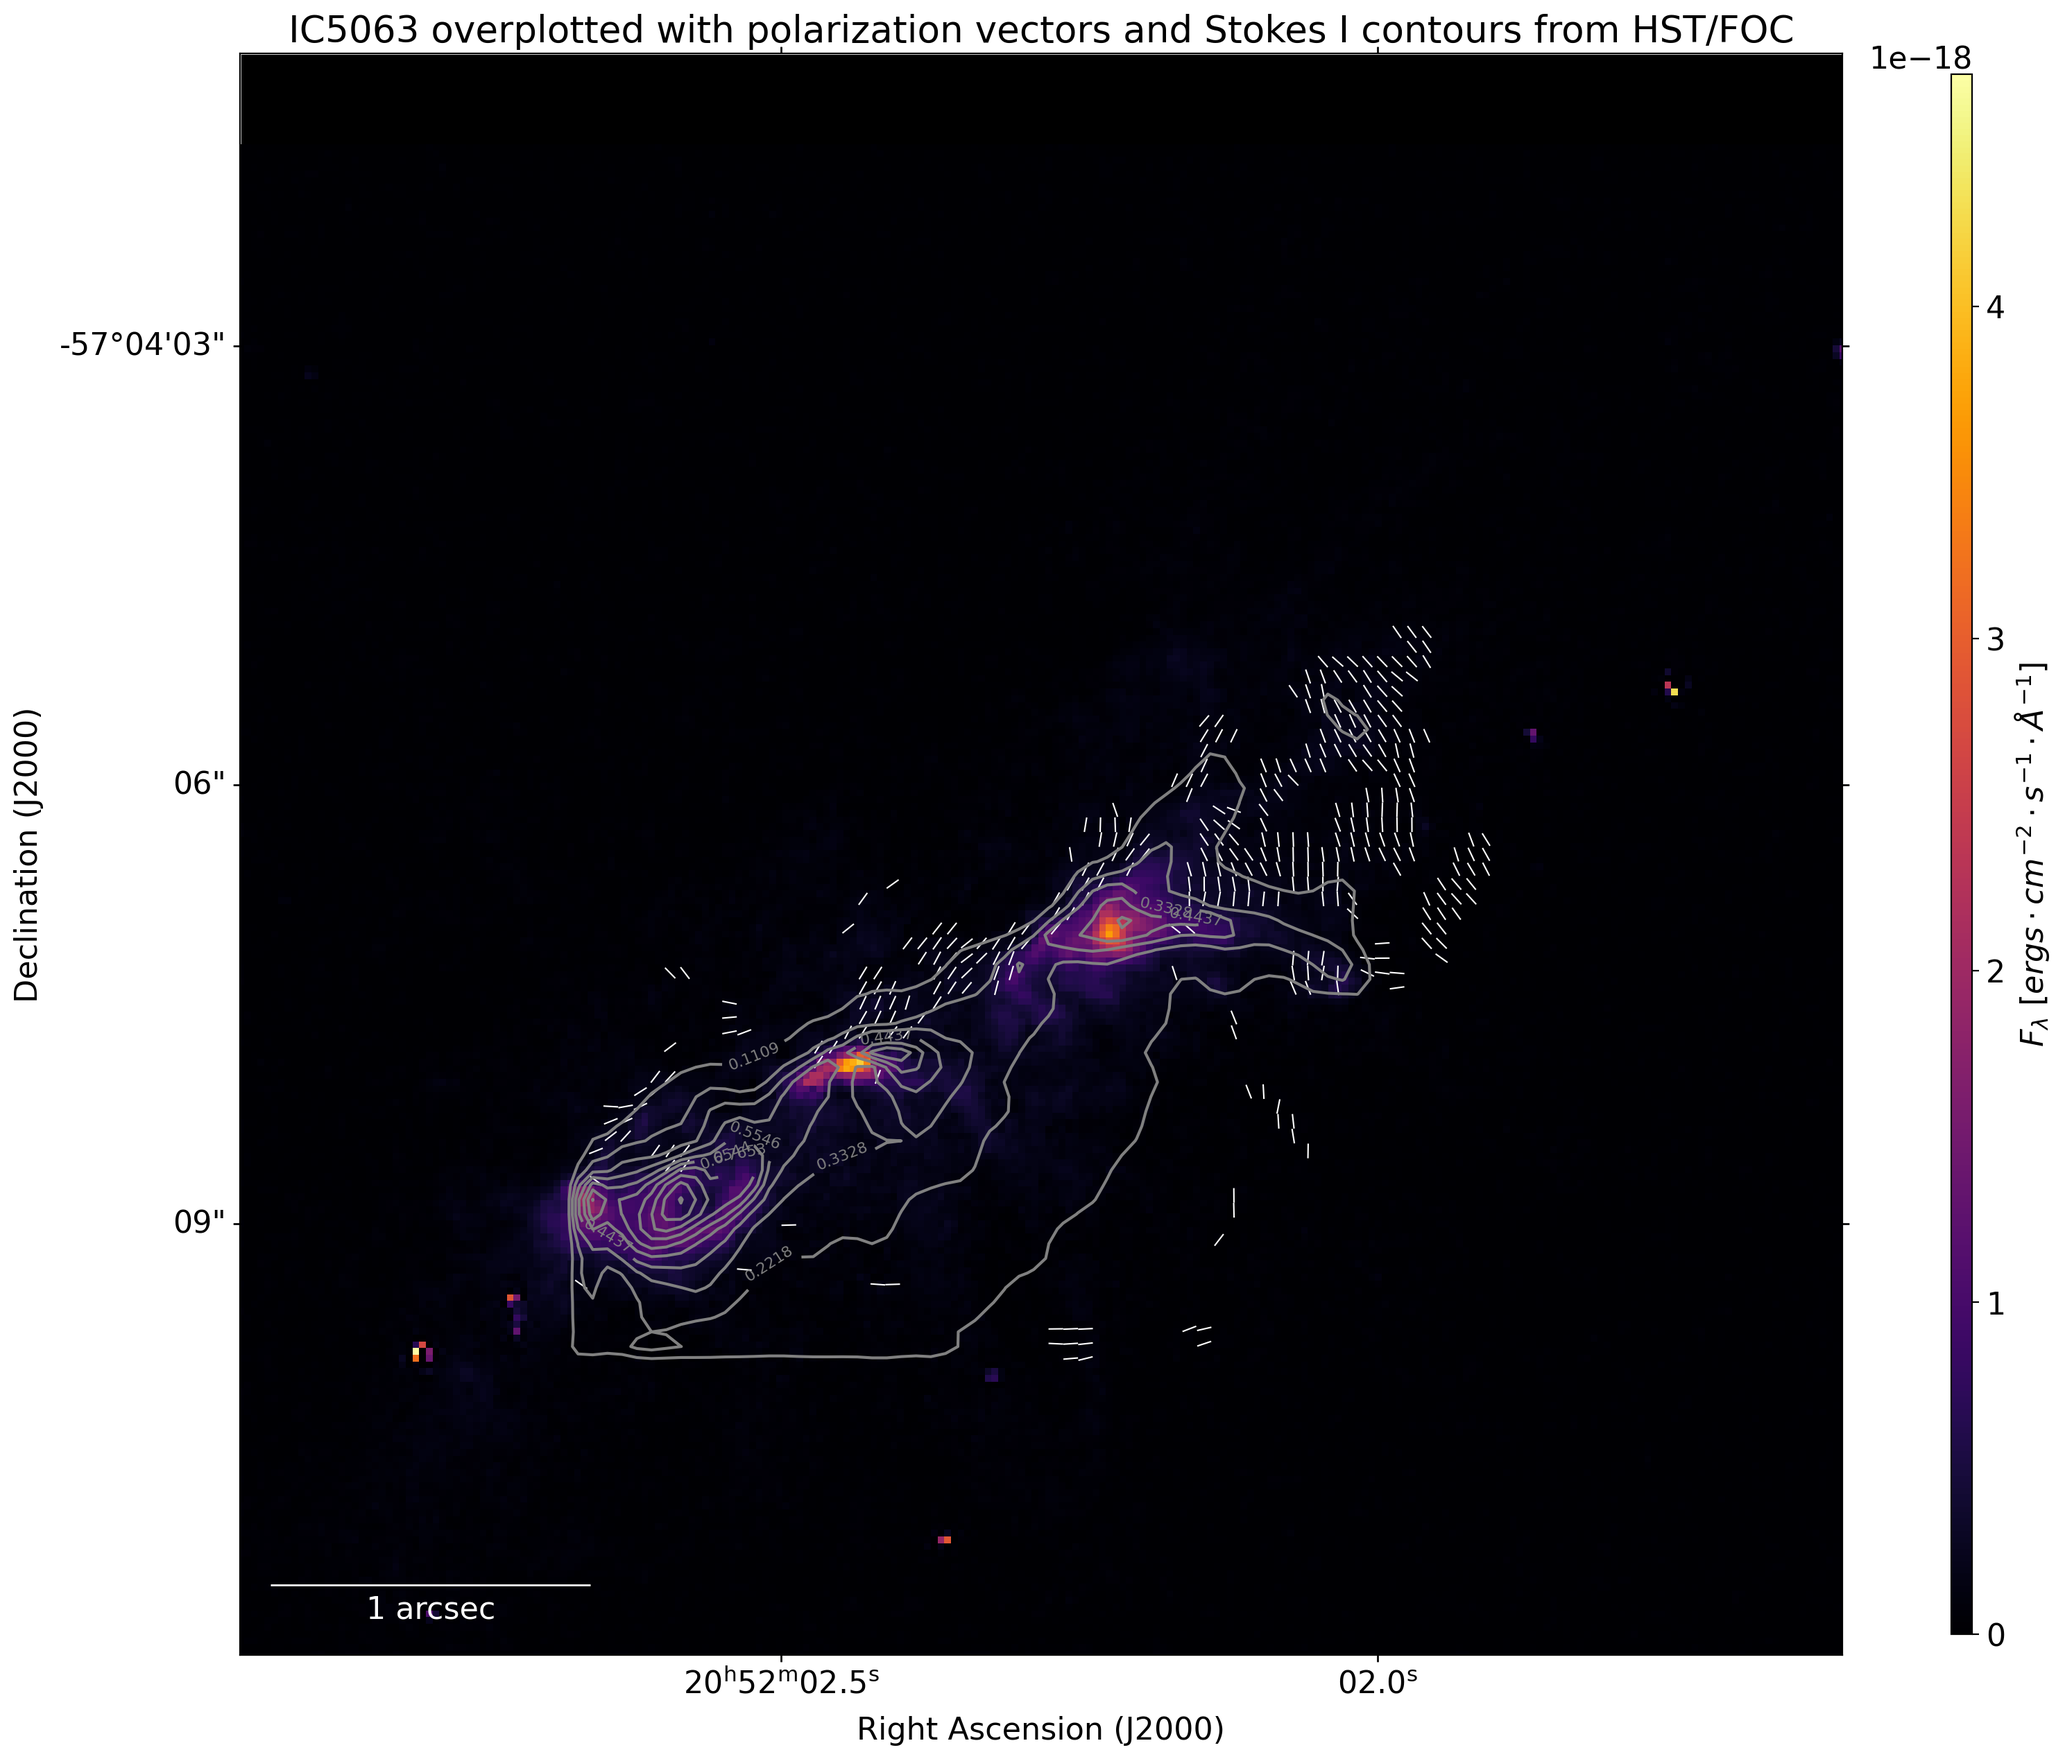
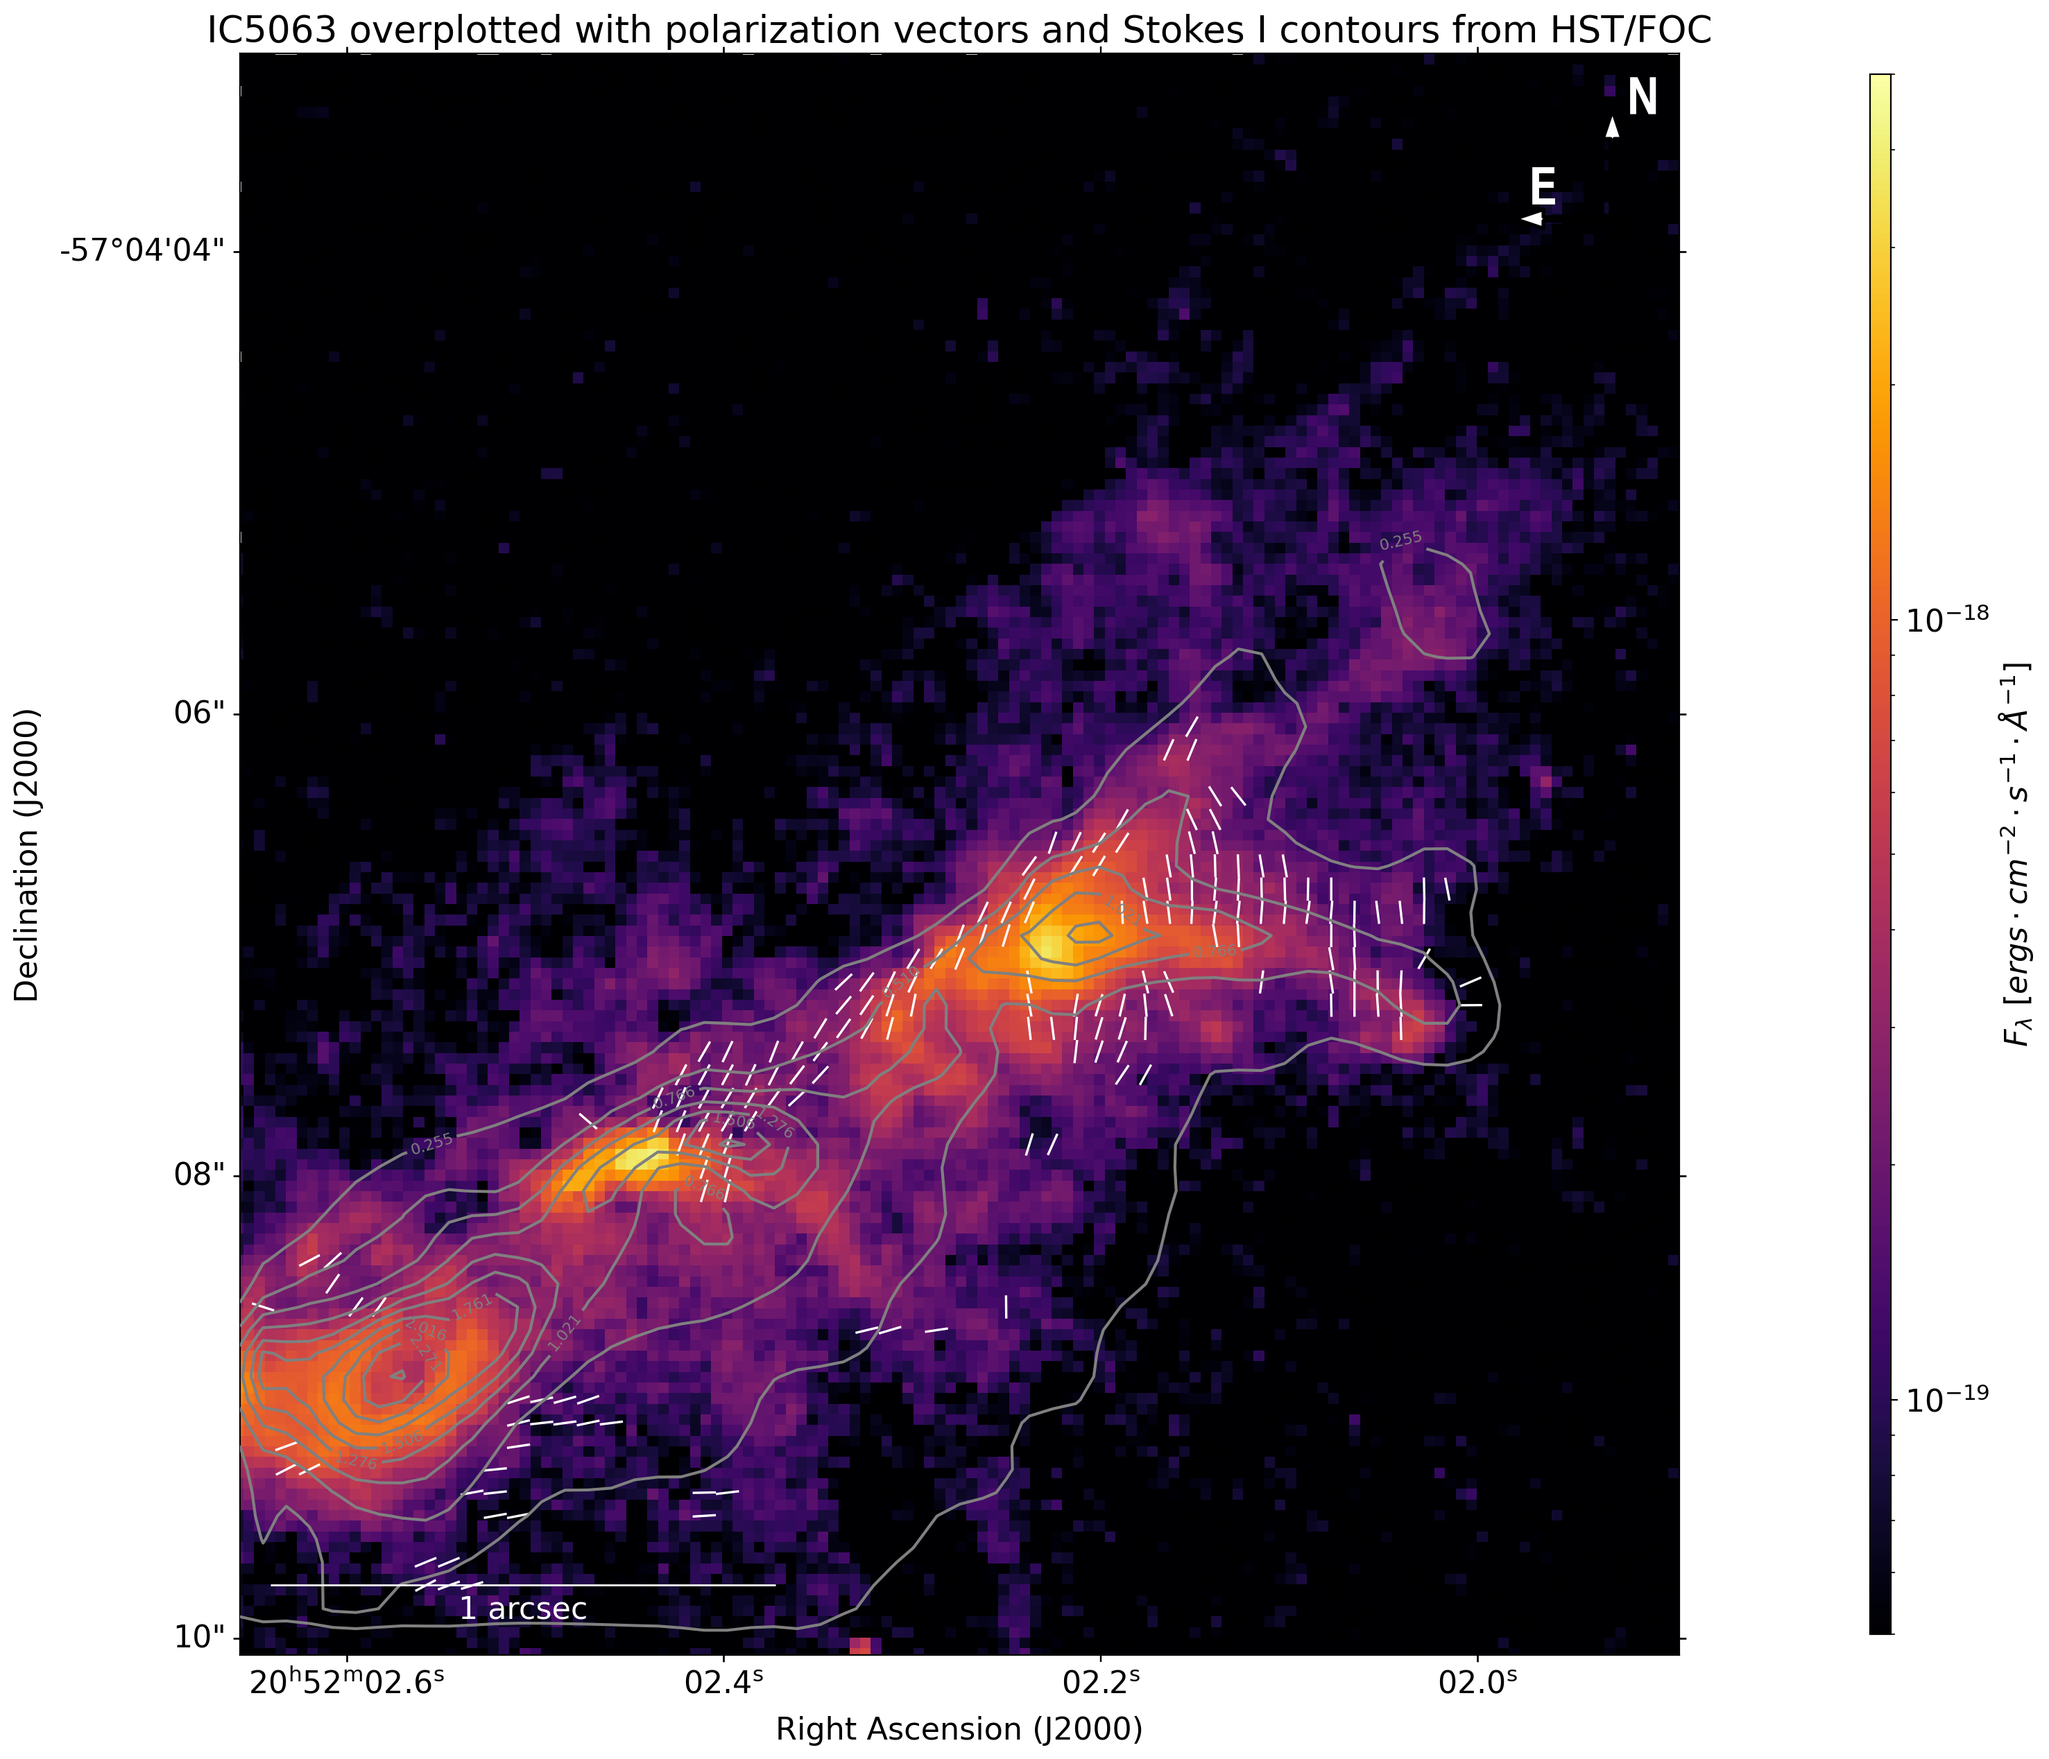
overplot IR:S2 on IC5063

diff --git a/src/lib/plots.py b/src/lib/plots.py
@@ -15,6 +15,7 @@ import matplotlib.pyplot as plt
 from matplotlib.patches import Rectangle
 from matplotlib.path import Path
 from matplotlib.widgets import RectangleSelector, Button, Slider, TextBox, LassoSelector
+from matplotlib.colors import LogNorm
 import matplotlib.font_manager as fm
 from mpl_toolkits.axes_grid1.anchored_artists import AnchoredSizeBar, AnchoredDirectionArrows
 from astropy.wcs import WCS
@@ -391,14 +392,20 @@ class align_maps(object):
         self.other_map = other_map
 
         self.wcs_map = WCS(self.map[0]).deepcopy()
-        if self.wcs_map.naxis > 2:
+        if self.wcs_map.naxis == 4:
             self.wcs_map = WCS(self.map[0],naxis=[1,2]).deepcopy()
             self.map[0].data = self.map[0].data[0,0]
+        elif self.wcs_map.naxis == 3:
+            self.wcs_map = WCS(self.map[0],naxis=[1,2]).deepcopy()
+            self.map[0].data = self.map[0].data[1]
         
         self.wcs_other = WCS(self.other_map[0]).deepcopy()
-        if self.wcs_other.naxis > 2:
+        if self.wcs_other.naxis == 4:
             self.wcs_other = WCS(self.other_map[0],naxis=[1,2]).deepcopy()
             self.other_map[0].data = self.other_map[0].data[0,0]
+        elif self.wcs_other.naxis == 3:
+            self.wcs_other = WCS(self.other_map[0],naxis=[1,2]).deepcopy()
+            self.other_map[0].data = self.other_map[0].data[1]
         
         try:
             convert_flux = self.map[0].header['photflam']
@@ -442,7 +449,7 @@ class align_maps(object):
         self.ax2.set_facecolor('k')
 
         vmin, vmax = 0., np.max(other_data[other_data > 0.]*other_convert)
-        im2 = self.ax2.imshow(other_data*other_convert, vmin=vmin, vmax=vmax, aspect='auto', cmap='inferno', alpha=1.)
+        im2 = self.ax2.imshow(other_data*other_convert, norm=LogNorm(), aspect='auto', cmap='inferno', alpha=1.)
 
         fontprops = fm.FontProperties(size=16)
         px_size = self.wcs_other.wcs.get_cdelt()[0]*3600.
@@ -605,7 +612,9 @@ class overplot_pol(align_maps):
     Class to overplot maps from different observations.
     Inherit from class align_maps in order to get the same WCS on both maps.
     """
-    def overplot(self, SNRp_cut=3., SNRi_cut=30., savename=None):
+    def overplot(self, SNRp_cut=3., SNRi_cut=30., savename=None, **kwargs):
+        self.Stokes_UV = self.map
+        self.wcs_UV = self.wcs_map
         #Get Data
         obj = self.Stokes_UV[0].header['targname']
         stkI = self.Stokes_UV[np.argmax([self.Stokes_UV[i].header['datatype']=='I_stokes' for i in range(len(self.Stokes_UV))])]
@@ -653,7 +662,7 @@ class overplot_pol(align_maps):
 
         #Display "other" intensity map
         vmin, vmax = 0., np.max(other_data[other_data > 0.]*other_convert)
-        im = self.ax.imshow(other_data*other_convert, vmin=vmin, vmax=vmax, transform=self.ax.get_transform(self.wcs_other), cmap='inferno', alpha=1.)
+        im = self.ax.imshow(other_data*other_convert, transform=self.ax.get_transform(self.wcs_other), cmap='inferno', alpha=1., **kwargs)
         cbar_ax = self.fig2.add_axes([0.95, 0.12, 0.01, 0.75])
         cbar = plt.colorbar(im, cax=cbar_ax, label=r"$F_{\lambda}$ [$ergs \cdot cm^{-2} \cdot s^{-1} \cdot \AA^{-1}$]")
 
@@ -673,10 +682,10 @@ class overplot_pol(align_maps):
 
         self.fig2.canvas.draw()
     
-    def plot(self, SNRp_cut=3., SNRi_cut=30., savename=None) -> None:
+    def plot(self, SNRp_cut=3., SNRi_cut=30., savename=None, **kwargs) -> None:
         self.align()
         if self.aligned:
-            self.overplot(SNRp_cut=SNRp_cut, SNRi_cut=SNRi_cut, savename=savename)
+            self.overplot(SNRp_cut=SNRp_cut, SNRi_cut=SNRi_cut, savename=savename, **kwargs)
             plt.show(block=True)
 
 

diff --git a/src/overplot.py b/src/overplot.py
@@ -2,7 +2,8 @@
 from astropy.io import fits
 import numpy as np
 from copy import deepcopy
-from lib.plots import overplot_radio
+from lib.plots import overplot_radio, overplot_pol
+from matplotlib.colors import LogNorm
 
 Stokes_UV = fits.open("../data/IC5063_x3nl030/IC5063_FOC_combine_FWHM020.fits")
 Stokes_18GHz = fits.open("../data/IC5063_x3nl030/radio/IC5063.18GHz.fits")
@@ -10,6 +11,8 @@ Stokes_24GHz = fits.open("../data/IC5063_x3nl030/radio/IC5063.24GHz.fits")
 Stokes_103GHz = fits.open("../data/IC5063_x3nl030/radio/I5063_103GHz.fits")
 Stokes_229GHz = fits.open("../data/IC5063_x3nl030/radio/I5063_229GHz.fits")
 Stokes_357GHz = fits.open("../data/IC5063_x3nl030/radio/I5063_357GHz.fits")
+Stokes_S2 = fits.open("../data/IC5063_x3nl030/POLARIZATION_COMPARISON/S2_rot_crop.fits")
+Stokes_IR = fits.open("../data/IC5063_x3nl030/IR/u2e65g01t_c0f_rot.fits")
 
 levelsMorganti = np.array([1.,2.,3.,8.,16.,32.,64.,128.])
 
@@ -34,3 +37,9 @@ D.plot(levels=levels229GHz, SNRp_cut=3.0, SNRi_cut=80.0, savename='../plots/IC50
 levels357GHz = np.linspace(1,99,11)/100.*np.max(deepcopy(Stokes_357GHz[0].data[Stokes_357GHz[0].data > 0.]))
 E = overplot_radio(Stokes_UV, Stokes_357GHz)
 E.plot(levels=levels357GHz, SNRp_cut=3.0, SNRi_cut=80.0, savename='../plots/IC5063_x3nl030/357GHz_overplot_forced.png')
+
+F = overplot_pol(Stokes_UV, Stokes_S2)
+F.plot(SNRp_cut=3.0, SNRi_cut=80.0, savename='../plots/IC5063_x3nl030/S2_overplot_forced.png', norm=LogNorm(vmin=5e-20,vmax=5e-18))
+
+G = overplot_pol(Stokes_UV, Stokes_IR)
+G.plot(SNRp_cut=3.0, SNRi_cut=80.0, savename='../plots/IC5063_x3nl030/IR_overplot_forced.png', norm=LogNorm(vmin=1e-17,vmax=5e-15))

diff --git a/src/FOC_reduction.py b/src/FOC_reduction.py
@@ -113,7 +113,7 @@ def main():
     display_data = False
     # Smoothing
     smoothing_function = 'combine'  #gaussian_after, weighted_gaussian_after, gaussian, weighted_gaussian or combine
-    smoothing_FWHM = 0.10           #If None, no smoothing is done
+    smoothing_FWHM = 0.20           #If None, no smoothing is done
     smoothing_scale = 'arcsec'      #pixel or arcsec
     # Rotation
     rotate_stokes = True            #rotation to North convention can give erroneous results
